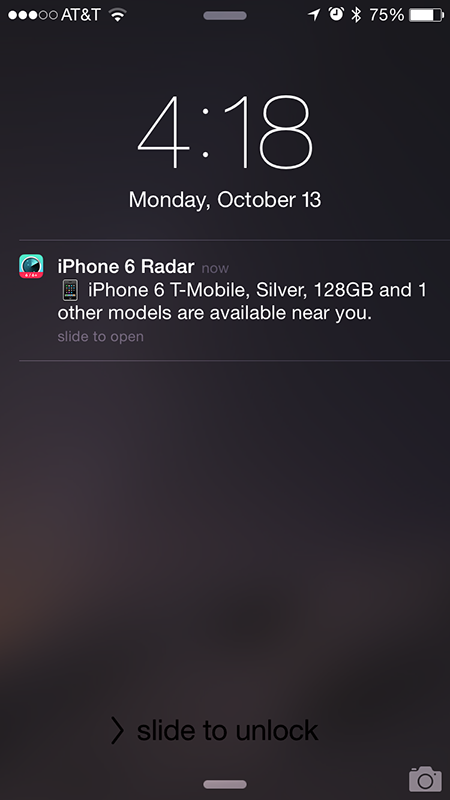
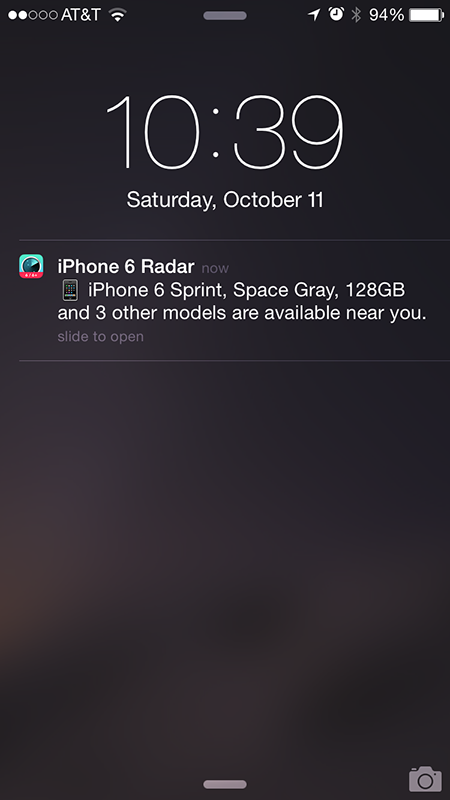
Update read me and the first screenshot.

diff --git a/README.md b/README.md
@@ -1,17 +1,19 @@
 # iPhone 6 Radar
 ## Why "iPhone 6 Radar"?
 ####The Pain
-If you want to buy an iPhone 6/6+ without renewing contract, you know the pain. Since the release in September, iPhone 6 and iPhone 6 plus are incredibly hard to find at your local Apple Stores. Let alone choosing storage size and your favorite color!
+If you want to buy an iPhone 6/6+ at full retail price, you know the pain. Since the release in September, iPhone 6 and iPhone 6 plus are incredibly hard to find at your local Apple Stores. Let alone choosing the right storage size and your favorite color!
 
 ####iPhone 6 Radar
 I had the same pain. So I created this iPhone app to track availabilities of iPhone 6/6+ in Apple Stores nearby. Simply add phones to the wish list by model, carrier, color and storage size. Once they are in stock in nearby Apple Stores, realtime notifications and email updates will be sent automatically. 
 
 ####My Result
-With the help of the app, I successfully grabbed one iPhone 6 at San Francisco Bay Area, and one iPhone 6 plus in Las Vegas while I was on a road trip! :-D That's why I call it "**The Ultimate iPhone 6/6+ Tracking Tool**".
+With the help of the app, I successfully grabbed one iPhone 6 at San Francisco Bay Area, and one iPhone 6 plus in Las Vegas while I was on a road trip! :-D So I call it "**The Ultimate iPhone 6/6+ Tracking Tool**".
 
-####Screenshots
+####Notification Screenshots
 
-![](https://)
+![Realtime Notification](https://raw.githubusercontent.com/ychw/iPhone6Radar/master/Screenshots/i6_radar_1.png)
+
+![Email Notification](https://raw.githubusercontent.com/ychw/iPhone6Radar/master/Screenshots/i6_radar_2.png)
 
 ##Features
 
@@ -41,8 +43,17 @@ To install the app on your iPhone, you need to:
 * Currently this app only checks iPhone 6 inventory in the United States.
 * To always check the nearest Apple Stores, this app tracks location at background. Location tracking also keeps the background fetch timer live. **The location information is only used for checking Apple Store inventory and never sent to anywhere.** 
 * All realtime notifications are sent as local notifications. So no need for additional push notification servers. 
-* Email updates were sent by SendGrid. But I had to remove my SendGrid account information when it is made open source. To keep the email notification function working, your own Gmail account is used to send notification emails. That's why the app asks for you email password if you choose to receive email notifications. **Your password is saved only on your phone (as clear text) and never sent to anywhere. You can always create a temporary Gmail account for the notification purpose if that makes you more comfortable.**
+* Email updates were sent by SendGrid. But I had to remove my SendGrid account information when it is made open source. To keep the email notification function working, your own Gmail account is used to send notification emails. That's why the app asks for you email password if you choose to receive email notifications. **Your password is saved only on your phone (as clear text) and never sent to anywhere.** You can always create a temporary Gmail account for the notification purpose if that makes you more comfortable.
 * Currently email notification only supports Gmail accounts.
+
+##More Screenshots
+![](https://raw.githubusercontent.com/ychw/iPhone6Radar/master/Screenshots/i6_radar_3.png)
+
+![](https://raw.githubusercontent.com/ychw/iPhone6Radar/master/Screenshots/i6_radar_4.png)
+
+![](https://raw.githubusercontent.com/ychw/iPhone6Radar/master/Screenshots/i6_radar_5.png)
+
+![](https://raw.githubusercontent.com/ychw/iPhone6Radar/master/Screenshots/i6_radar_6.png)
 
 ##To-Dos
 1. Also check iPhone inventories for 3rd party stores, such as BestBuy, AT&T, Verizon, ...
